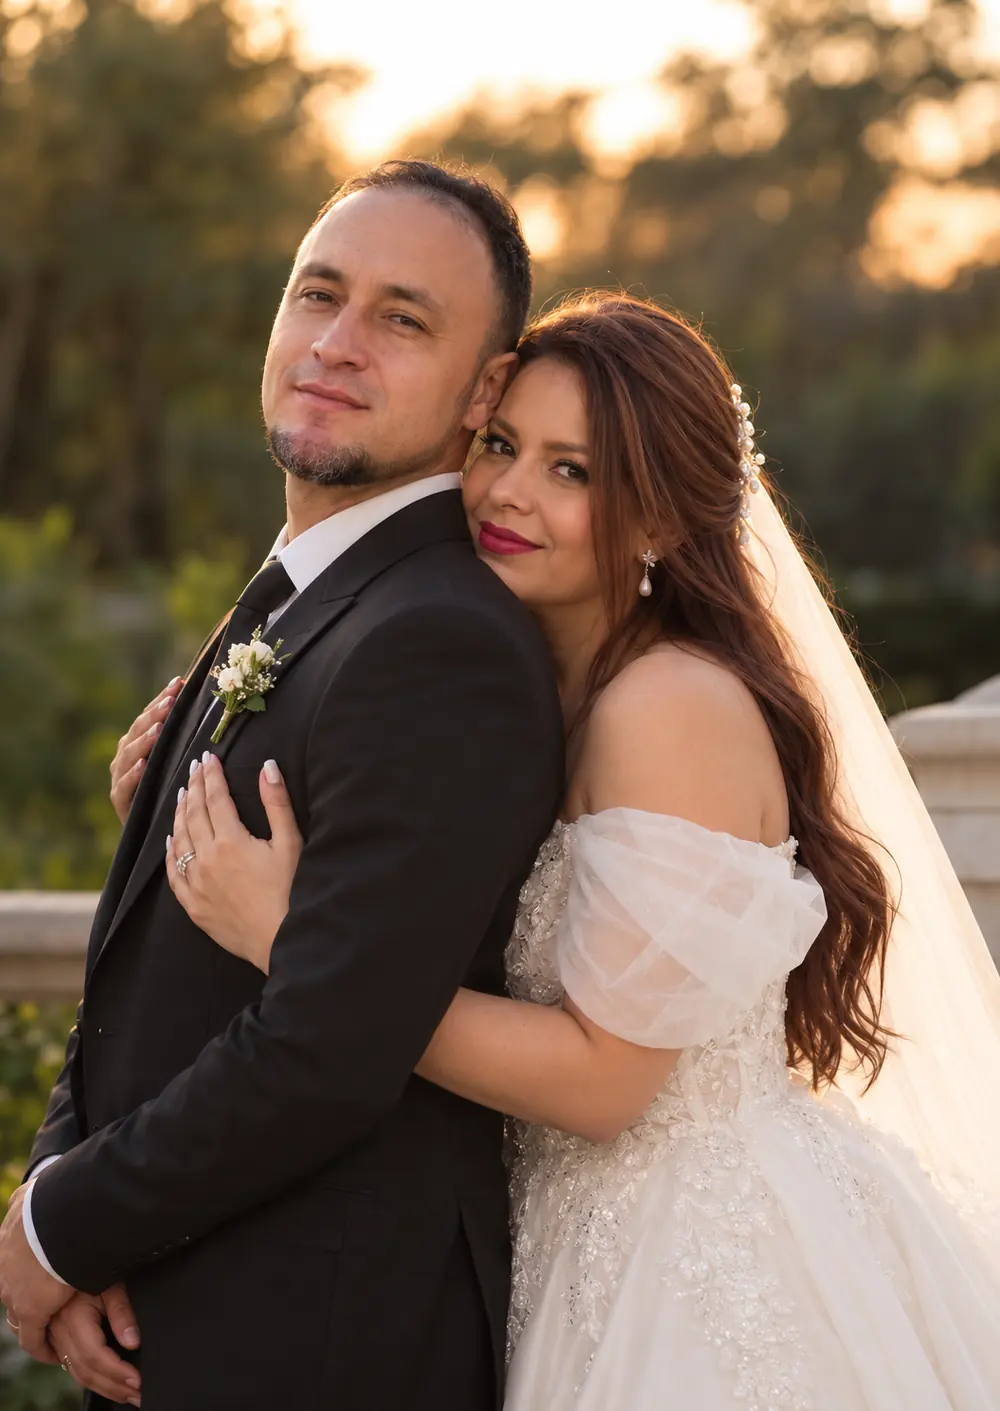
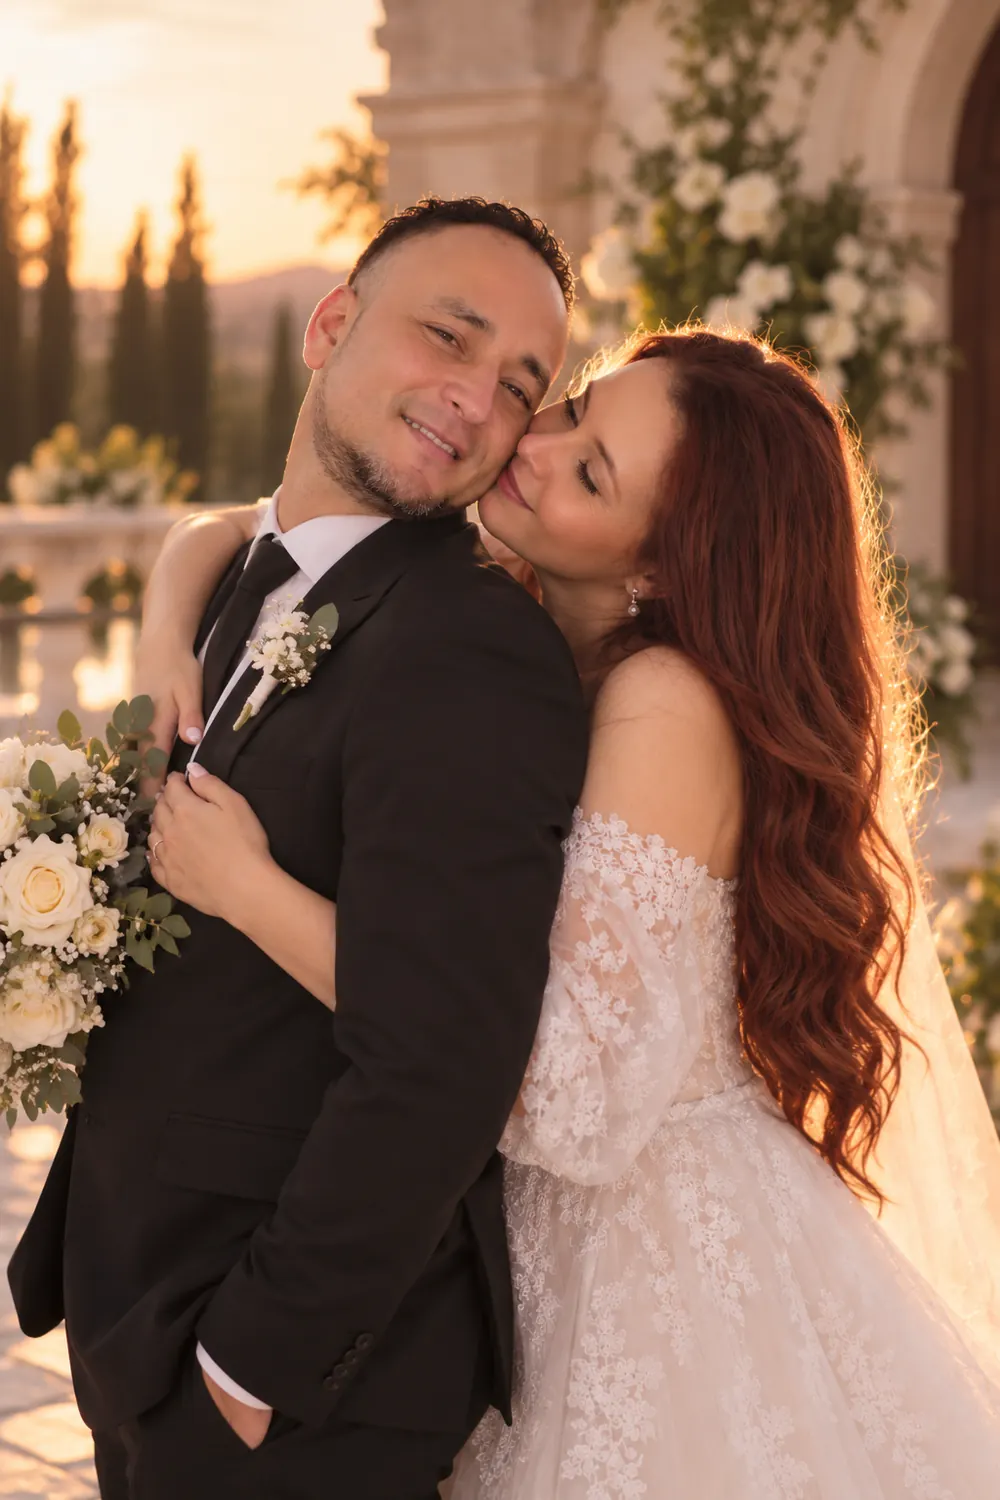
Replace all site photos with the new set; veil close-up opens the invitation
Claude-Session: https://claude.ai/code/session_01HLNNm9WCyu3EsazDm5Fewc

diff --git a/index.html b/index.html
@@ -100,7 +100,16 @@ a{text-decoration:none;color:inherit}
 
 /* Secciones */
 .hero{min-height:100vh;min-height:100svh;position:relative;display:flex;align-items:flex-end;overflow:hidden;background:var(--plum)}
-.hero-photo{position:absolute;inset:0;width:100%;height:100%;object-fit:cover;object-position:42% center}
+.hero-photo{position:absolute;inset:0;width:100%;height:100%;object-fit:cover;object-position:55% 30%}
+.hero-bg{display:none;position:absolute;inset:-6%;width:112%;height:112%;object-fit:cover;filter:blur(30px) brightness(.85) saturate(1.05)}
+@media(min-width:900px){
+  .hero-bg{display:block}
+  .hero{align-items:center}
+  .hero .hero-photo{inset:0 0 0 auto;width:46%;object-position:center 30%;-webkit-mask-image:linear-gradient(90deg,transparent,#000 16%);mask-image:linear-gradient(90deg,transparent,#000 16%)}
+  .hero .hero-shade{background:linear-gradient(90deg,rgba(47,50,32,.55),rgba(47,50,32,0) 60%),linear-gradient(180deg,rgba(47,50,32,.15),rgba(47,50,32,0) 40%)}
+  .hero .hero-copy{width:54%;padding:3rem 3vw}
+  .hero .frame{max-width:440px}
+}
 .hero-shade{position:absolute;inset:0;background:linear-gradient(180deg,rgba(47,50,32,.18),rgba(47,50,32,0) 35%,rgba(47,50,32,.78) 100%)}
 .hero-copy{position:relative;z-index:2;width:100%;padding:2rem 1.4rem 3.4rem}
 .frame{max-width:560px;margin:auto;padding:26px 22px;text-align:center;border:1px solid rgba(241,234,217,.7);background:rgba(47,50,32,.28);backdrop-filter:blur(3px);-webkit-backdrop-filter:blur(3px)}
@@ -156,7 +165,7 @@ a{text-decoration:none;color:inherit}
 .gallery{display:grid;grid-template-columns:1fr 1fr;gap:12px;margin-top:34px}
 .gallery button{display:block;width:100%;aspect-ratio:4/5;padding:0;border:1px solid var(--line);border-radius:10px;overflow:hidden;background:none;cursor:zoom-in;box-shadow:0 8px 20px rgba(70,72,40,.14)}
 .gallery img{display:block;width:100%;height:100%;object-fit:cover;transition:transform .6s ease}
-.gallery button:nth-child(1) img{object-position:center 40%}.gallery button:nth-child(2) img{object-position:center 25%}.gallery button:nth-child(3) img{object-position:center 45%}.gallery button:nth-child(4) img{object-position:center 25%}
+.gallery button:nth-child(1) img{object-position:center 18%}.gallery button:nth-child(2) img{object-position:center 22%}.gallery button:nth-child(3) img{object-position:center 30%}.gallery button:nth-child(4) img{object-position:center 28%}
 .gallery button:hover img,.gallery button:focus-visible img{transform:scale(1.04)}
 .gallery button:focus-visible{outline:2px solid var(--mauve);outline-offset:3px}
 dialog.lightbox{max-width:94vw;max-height:94vh;padding:0;border:0;background:transparent;overflow:visible}
@@ -252,7 +261,8 @@ footer.section{min-height:600px;display:flex;align-items:flex-end;padding-bottom
 <div id="site-content">
   <!-- ============ PORTADA ============ -->
   <header id="inicio" class="hero">
-    <img class="hero-photo" src="img/portada.webp" alt="Óscar y Sandra, los novios, besándose frente al altar de la iglesia">
+    <img class="hero-bg" src="img/velo.webp" alt="" aria-hidden="true">
+    <img class="hero-photo" src="img/velo.webp" alt="Óscar y Sandra sonriendo muy juntos bajo el velo de la novia">
     <div class="hero-shade"></div>
     <svg class="petal" style="left:15%;animation-delay:-2s" aria-hidden="true"><use href="#petal"/></svg>
     <svg class="petal" style="left:48%;animation-delay:-9s;color:#E9DDC3;width:16px;height:16px" aria-hidden="true"><use href="#petal"/></svg>
@@ -298,7 +308,7 @@ footer.section{min-height:600px;display:flex;align-items:flex-end;padding-bottom
         <div class="story">
           <div class="story-photo">
             <svg class="sprig top" viewBox="0 0 300 50" aria-hidden="true"><use href="#sprig"/></svg>
-            <img src="img/historia.webp" alt="Óscar y Sandra abrazados al atardecer" loading="lazy">
+            <img src="img/atardecer.webp" alt="Óscar y Sandra abrazados, de pie, al atardecer" loading="lazy">
             <svg class="sprig bot" viewBox="0 0 300 50" aria-hidden="true"><use href="#sprig"/></svg>
           </div>
           <blockquote class="quote">Gracias por acompañarnos a escribir uno de los capítulos más hermosos de nuestra historia.</blockquote>
@@ -307,7 +317,7 @@ footer.section{min-height:600px;display:flex;align-items:flex-end;padding-bottom
     </section>
 
     <!-- ============ EL EVENTO ============ -->
-    <section id="evento" class="section photo" style="--bg:url(img/velo.webp)" data-face="0.5,0.28">
+    <section id="evento" class="section photo" style="--bg:url(img/romantico.webp)" data-face="0.72,0.30">
       <div class="inner wide reveal">
         <div class="center">
           <p class="eyebrow">Óscar &amp; Sandra</p>
@@ -369,7 +379,7 @@ footer.section{min-height:600px;display:flex;align-items:flex-end;padding-bottom
     </section>
 
     <!-- ============ DRESS CODE ============ -->
-    <section id="dress-code" class="section photo top-face" style="--bg:url(img/abrazo.webp)" data-face="0.5,0.26">
+    <section id="dress-code" class="section photo top-face" style="--bg:url(img/iglesia.webp)" data-face="0.58,0.36">
       <svg class="petal" style="left:20%;animation-delay:-4s" aria-hidden="true"><use href="#petal"/></svg>
       <svg class="petal" style="left:70%;animation-delay:-10s;color:#E6D9BC" aria-hidden="true"><use href="#petal"/></svg>
       <div class="inner reveal center" style="max-width:560px">
@@ -393,10 +403,10 @@ footer.section{min-height:600px;display:flex;align-items:flex-end;padding-bottom
         <p class="eyebrow">Nuestros momentos</p>
         <h2 class="title">Galería</h2>
         <div class="gallery">
-          <button type="button" data-full="img/velo.webp" aria-label="Ampliar foto: el beso bajo el velo"><img src="img/velo.webp" alt="Óscar y Sandra besándose bajo el velo" loading="lazy"></button>
-          <button type="button" data-full="img/abrazo.webp" aria-label="Ampliar foto: abrazo al atardecer"><img src="img/abrazo.webp" alt="Sandra abraza a Óscar al atardecer" loading="lazy"></button>
-          <button type="button" data-full="img/baile.webp" aria-label="Ampliar foto: beso en el salón"><img src="img/baile.webp" alt="Óscar y Sandra en un beso con luces cálidas de fondo" loading="lazy"></button>
-          <button type="button" data-full="img/historia.webp" aria-label="Ampliar foto: retrato espalda con espalda"><img src="img/historia.webp" alt="Retrato de los novios, ella recostada en su hombro" loading="lazy"></button>
+          <button type="button" data-full="img/atardecer.webp" aria-label="Ampliar foto: retrato al atardecer"><img src="img/atardecer.webp" alt="Óscar y Sandra abrazados, de pie, al atardecer" loading="lazy"></button>
+          <button type="button" data-full="img/abrazo.webp" aria-label="Ampliar foto: abrazo mejilla con mejilla"><img src="img/abrazo.webp" alt="Sandra abraza a Óscar por detrás, mejilla con mejilla" loading="lazy"></button>
+          <button type="button" data-full="img/velo.webp" aria-label="Ampliar foto: bajo el velo"><img src="img/velo.webp" alt="Óscar y Sandra sonriendo bajo el velo de la novia" loading="lazy"></button>
+          <button type="button" data-full="img/romantico.webp" aria-label="Ampliar foto: retrato con el ramo"><img src="img/romantico.webp" alt="Óscar y Sandra con el ramo de la novia al atardecer" loading="lazy"></button>
         </div>
       </div>
     </section>
@@ -429,7 +439,7 @@ footer.section{min-height:600px;display:flex;align-items:flex-end;padding-bottom
     </section>
 
     <!-- ============ CONFIRMAR ============ -->
-    <section id="confirmar" class="section photo top-face" style="--bg:url(img/portada.webp)" data-face="0.52,0.41">
+    <section id="confirmar" class="section photo top-face" style="--bg:url(img/abrazo.webp)" data-face="0.44,0.25">
       <div class="inner reveal center">
         <p class="eyebrow">Reserva la fecha</p>
         <h2 class="title">¿Nos Acompañas?</h2>
@@ -441,7 +451,7 @@ footer.section{min-height:600px;display:flex;align-items:flex-end;padding-bottom
 
   <!-- ============ DESPEDIDA ============ -->
   <footer class="section photo">
-    <img class="footer-photo" src="img/velo.webp" alt="" loading="lazy" data-face="0.5,0.28">
+    <img class="footer-photo" src="img/atardecer.webp" alt="" loading="lazy" data-face="0.47,0.20">
     <div class="footer-layer"></div>
     <svg class="petal" style="left:22%;animation-delay:-3s" aria-hidden="true"><use href="#petal"/></svg>
     <svg class="petal" style="left:64%;animation-delay:-8s;color:#E6D9BC" aria-hidden="true"><use href="#petal"/></svg>
@@ -532,8 +542,8 @@ function updateCountdowns() {
 updateCountdowns();
 setInterval(updateCountdowns, 1000);
 
-// En escritorio, encuadra cada foto de fondo para que los rostros (data-face = x,y en fracción de la foto)
-// queden a data-at px (por defecto 200) del borde superior de la sección, sobre el texto.
+// Encuadra cada foto de fondo para que los rostros (data-face = x,y en fracción de la foto) queden centrados
+// horizontalmente y, en escritorio, a data-at px (por defecto 200) del borde superior, sobre el texto.
 const faceEls = [...document.querySelectorAll("[data-face]")];
 const faceSizes = {};
 function whenSized(src, cb) {
@@ -546,11 +556,10 @@ function placeFaces() {
   const wide = innerWidth >= 900;
   faceEls.forEach(el => {
     const isImg = el.tagName === "IMG";
-    if (!wide) { if (isImg) el.style.objectPosition = ""; else el.style.backgroundPosition = ""; return; }
     const src = isImg ? el.getAttribute("src") : el.style.getPropertyValue("--bg").match(/url\(["']?([^"')]+)/)[1];
     whenSized(src, ({ w, h }) => {
       const [fx, fy] = el.dataset.face.split(",").map(Number);
-      const at = Number(el.dataset.at || 200);
+      const at = wide ? Number(el.dataset.at || 200) : Math.min(el.getBoundingClientRect().height * 0.32, 260);
       const r = el.getBoundingClientRect(), cw = r.width, ch = r.height;
       const k = Math.max(cw / w, ch / h), sw = w * k, sh = h * k;
       const x = Math.min(0, Math.max(cw - sw, cw / 2 - fx * sw));
